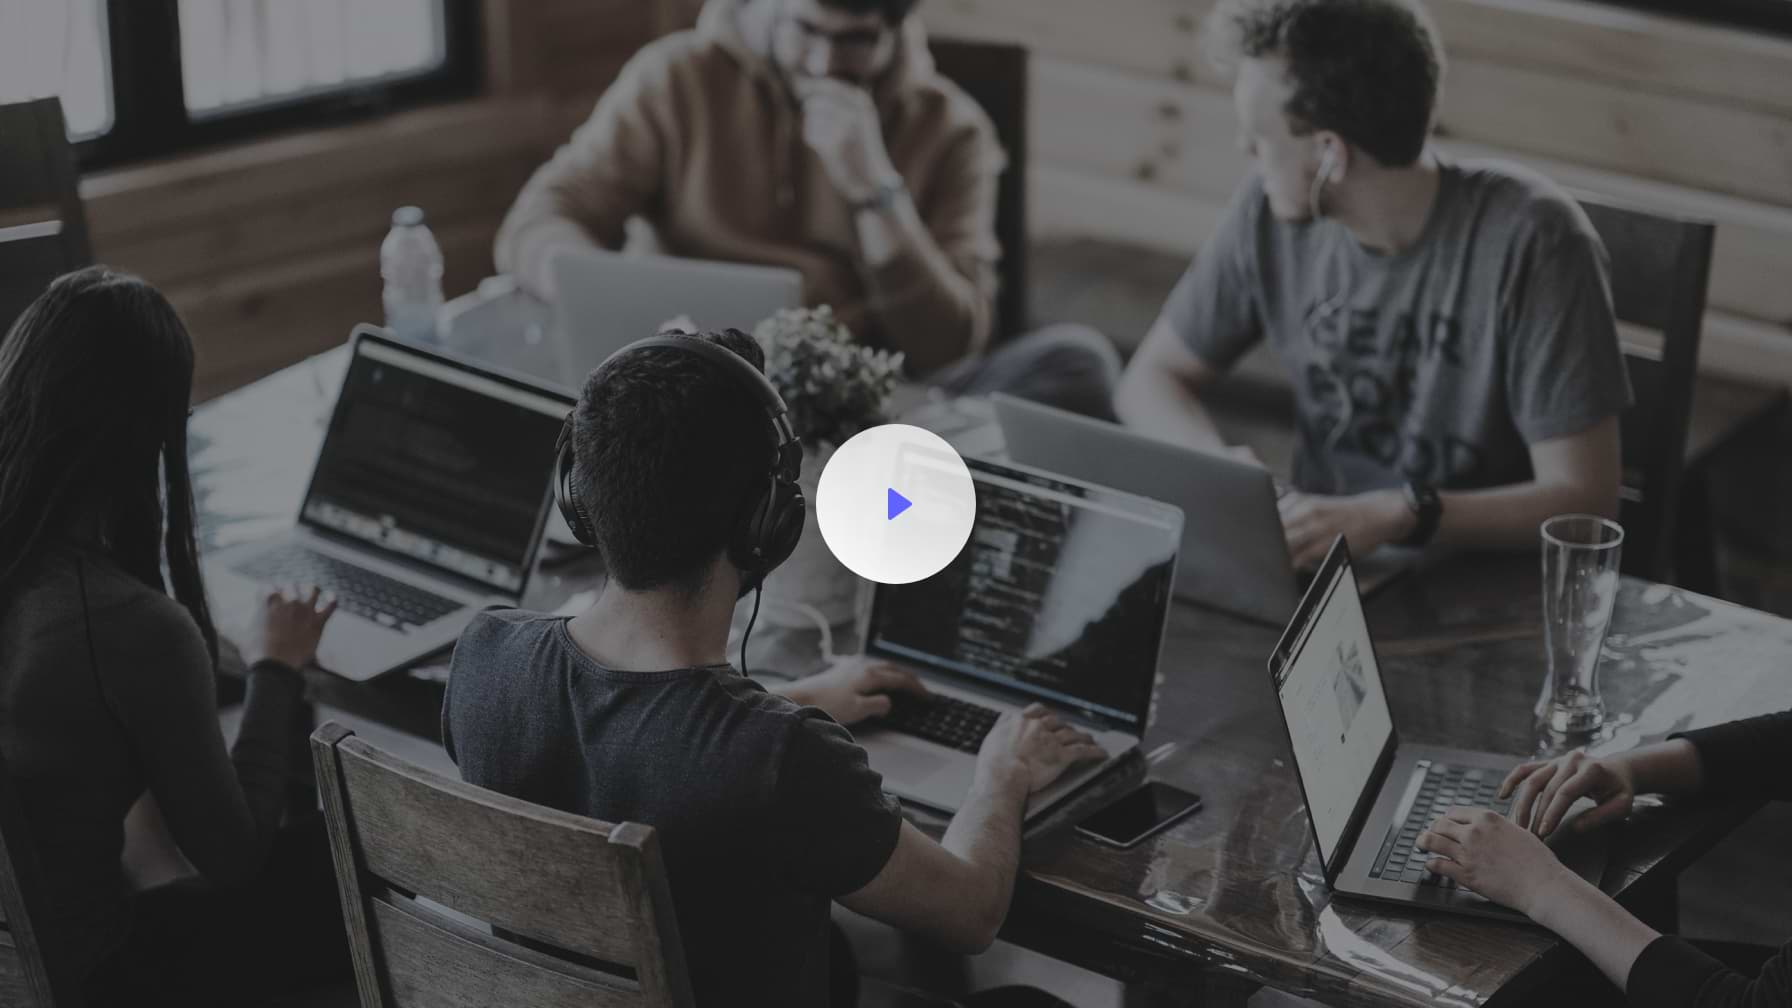
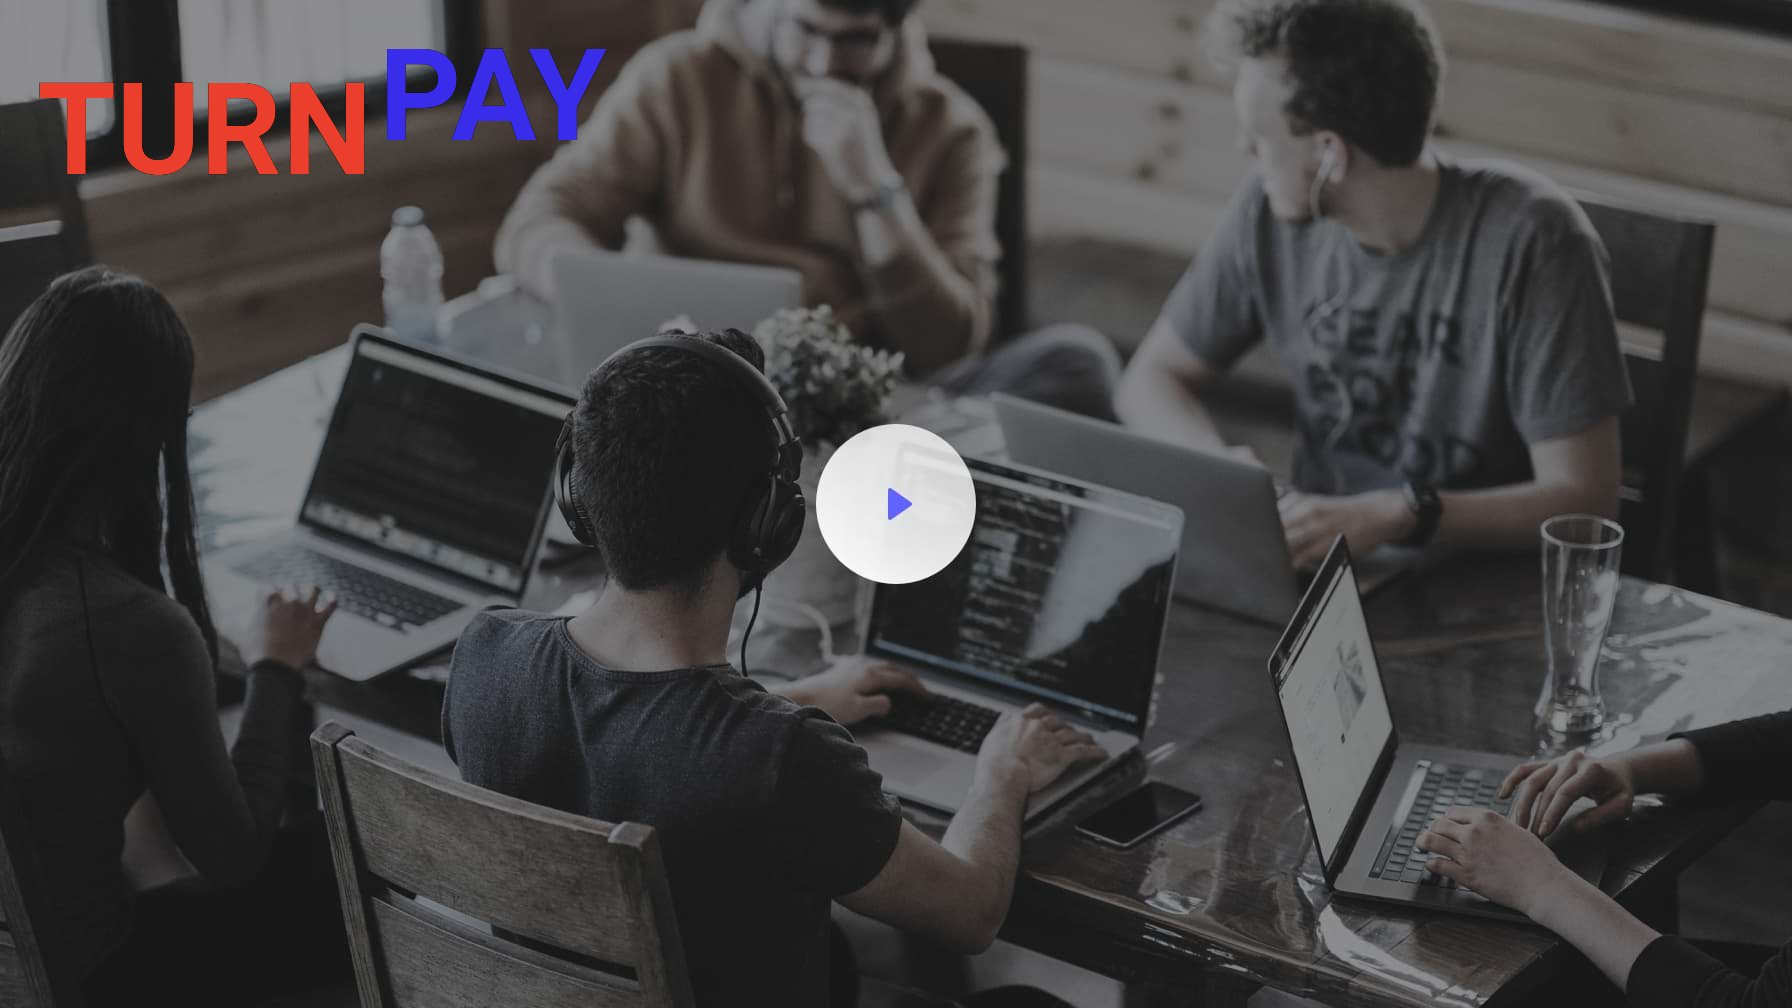
video

Changed region(s): [[0.0, 0.0308, 0.3438, 0.1845]]

diff --git a/src/components/sections/Hero.js b/src/components/sections/Hero.js
@@ -61,19 +61,19 @@ const Hero = ({
         <div className={innerClasses}>
           <div className="hero-content">
             <h1 className="mt-0 mb-16 reveal-from-bottom" data-reveal-delay="200">
-              Landing template for <span className="text-color-primary">startups</span>
+              Stablecoin <span className="text-color-primary">Payments</span>
             </h1>
             <div className="container-xs">
               <p className="m-0 mb-32 reveal-from-bottom" data-reveal-delay="400">
-                Our landing page template works on all devices, so you only have to set it up once, and get beautiful results forever.
+                 Enabling low cost, instant global payments
                 </p>
               <div className="reveal-from-bottom" data-reveal-delay="600">
                 <ButtonGroup>
-                  <Button tag="a" color="primary" wideMobile href="https://cruip.com/">
+                  <Button tag="a" color="primary" wideMobile href="https://turnpay.co.uk/">
                     Get started
                     </Button>
-                  <Button tag="a" color="dark" wideMobile href="https://github.com/cruip/open-react-template/">
-                    View on Github
+                  <Button tag="a" color="dark" wideMobile href="https://turnpay.co.uk/">
+                    Signup
                     </Button>
                 </ButtonGroup>
               </div>
@@ -81,7 +81,7 @@ const Hero = ({
           </div>
           <div className="hero-figure reveal-from-bottom illustration-element-01" data-reveal-value="20px" data-reveal-delay="800">
             <a
-              data-video="https://player.vimeo.com/video/174002812"
+              data-video="https://www.youtube.com/watch?v=WWNwOy8wJH0"
               href="#0"
               aria-controls="video-modal"
               onClick={openModal}
